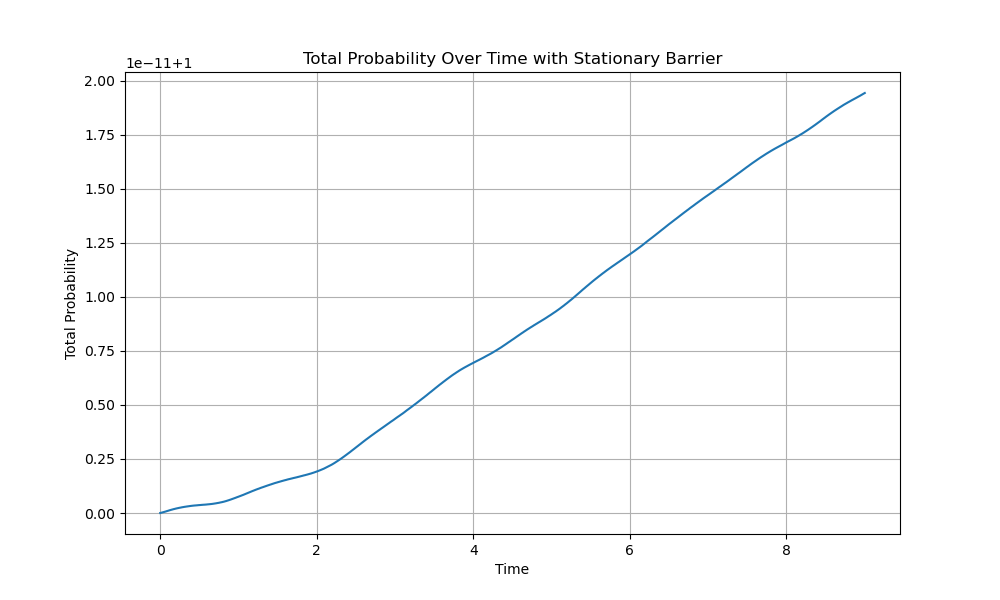
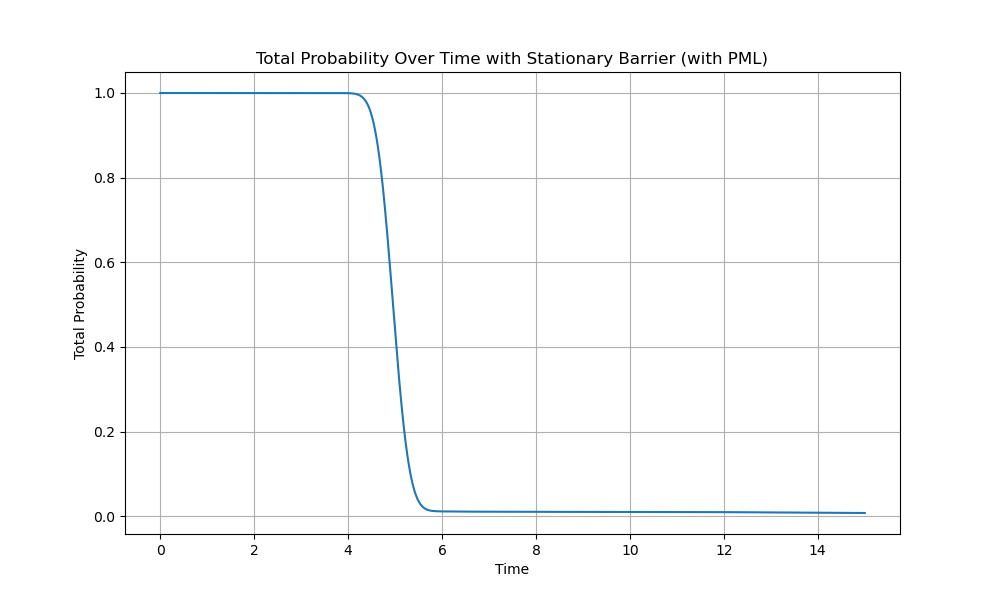
added plm boundary- toggled

diff --git a/wave_tunnel/main.py b/wave_tunnel/main.py
@@ -5,10 +5,11 @@ import matplotlib.pyplot as plt
 from tqdm import tqdm
 
 from wavefunctions import initialize_wavefunction_custom
-from potentials import create_total_potential
+from potentials import create_total_potential_with_pml
 from evolution import evolve_wavefunction
 from visualization import create_datashader_frame
 from utils import compute_total_probability
+from pml import get_pml_parameters
 
 def create_tunneling_animation_with_stationary_barrier_custom(
     output_filename='quantum_tunneling_with_stationary_barrier_custom.gif',
@@ -22,10 +23,12 @@ def create_tunneling_animation_with_stationary_barrier_custom(
     vis_settings={'width': 2000, 'height': 1000},
     n=1,
     x0=-100.0,
-    barrier_center_init=0.0
+    barrier_center_init=0.0,
+    use_pml=True
 ):
     """
     Create an animation of a wave packet tunneling through a stationary potential barrier.
+    Now includes PML boundary conditions.
     """
     # Create spatial grid
     x = np.linspace(spatial_range[0], spatial_range[1], spatial_points)
@@ -34,8 +37,16 @@ def create_tunneling_animation_with_stationary_barrier_custom(
     # Initialize wavefunction
     psi = initialize_wavefunction_custom(x, n, x0)
 
-    # Define total potential
-    V_total = create_total_potential(x, barrier_center_init, V0, barrier_width, transition_width)
+    # Setup PML parameters
+    pml_params = None
+    if use_pml:
+        pml_params = get_pml_parameters(spatial_range)
+        print(f"PML parameters: {pml_params}")
+
+    # Define total potential with PML
+    V_total, W_pml = create_total_potential_with_pml(
+        x, barrier_center_init, V0, barrier_width, transition_width, pml_params
+    )
 
     # Time step calculation
     max_k = np.max(np.abs(2 * np.pi * np.fft.fftfreq(spatial_points, d=dx)))
@@ -51,9 +62,10 @@ def create_tunneling_animation_with_stationary_barrier_custom(
     frames = []
     probabilities = []
 
-    print("Generating frames with numerical evolution and stationary barrier...")
+    pml_status = "with PML" if use_pml else "without PML"
+    print(f"Generating frames with numerical evolution and stationary barrier {pml_status}...")
     for i in tqdm(range(num_time_steps)):
-        psi = evolve_wavefunction(psi, x, dt, V_total)
+        psi = evolve_wavefunction(psi, x, dt, V_total, W_pml)
         total_prob = compute_total_probability(psi, dx)
         probabilities.append(total_prob)
 
@@ -70,7 +82,7 @@ def create_tunneling_animation_with_stationary_barrier_custom(
     plt.plot(times, probabilities)
     plt.xlabel('Time')
     plt.ylabel('Total Probability')
-    plt.title('Total Probability Over Time with Stationary Barrier')
+    plt.title(f'Total Probability Over Time with Stationary Barrier ({pml_status})')
     plt.grid(True)
     plt.savefig("probability_over_time_with_stationary_barrier_custom.png")
     plt.close()
@@ -94,13 +106,13 @@ def create_tunneling_animation_with_stationary_barrier_custom(
 if __name__ == "__main__":
     n_value = 4  # (n = m^2)
     spatial_range = (-100, 100)
-    x0_position = -60.0
+    x0_position = -50.0
     barrier_initial_position = 0
     
-    # Calculate for 60 fps
-    total_time = 9
+    # Fps
+    total_time = 15
     fps = 50
-    num_frames = int(total_time * fps)  # 600 frames for 10 seconds at 60fps
+    num_frames = int(total_time * fps)
     
     output_file = create_tunneling_animation_with_stationary_barrier_custom(
         output_filename="tunneling.gif",
@@ -108,12 +120,13 @@ if __name__ == "__main__":
         spatial_points=2000,
         spatial_range=spatial_range,
         total_time=total_time,
-        barrier_width=8.0,
+        barrier_width=15.0,
         V0=320.0,
         transition_width=0.05,
         vis_settings={'width': 1280, 'height': 640},
         n=n_value,
         x0=x0_position,
-        barrier_center_init=barrier_initial_position
+        barrier_center_init=barrier_initial_position,
+        use_pml=True
     )
     print(f"Animation saved to: {output_file}")

diff --git a/wave_tunnel/pml.py b/wave_tunnel/pml.py
@@ -1,0 +1,93 @@
+# pml.py
+
+import numpy as np
+
+def create_pml_absorbing_potential(x, pml_width=5.0, pml_strength=10.0, central_region=None):
+    """
+    Create a Perfectly Matched Layer (PML) absorbing potential.
+    
+    Parameters:
+    - x: Spatial grid points.
+    - pml_width: Width of the PML regions.
+    - pml_strength: Maximum strength of the absorbing potential.
+    - central_region: Tuple defining the central simulation region (min, max).
+                     If None, automatically determined from domain.
+    
+    Returns:
+    - W_pml: Absorbing potential array (positive real numbers).
+    """
+    W_pml = np.zeros_like(x)
+    x_min, x_max = x.min(), x.max()
+    
+    if central_region is None:
+        # Define central region as middle portion of domain
+        domain_width = x_max - x_min
+        central_min = x_min + pml_width
+        central_max = x_max - pml_width
+    else:
+        central_min, central_max = central_region
+
+    # Left PML (between x_min and central_min)
+    mask_left = (x >= x_min) & (x <= central_min)
+    if np.any(mask_left):
+        # Distance from left boundary of PML region
+        distance_from_boundary = central_min - x[mask_left]
+        normalized_distance = distance_from_boundary / pml_width
+        # Ensure we don't exceed pml_width
+        normalized_distance = np.clip(normalized_distance, 0, 1)
+        W_pml[mask_left] = pml_strength * normalized_distance**2
+
+    # Right PML (between central_max and x_max)
+    mask_right = (x >= central_max) & (x <= x_max)
+    if np.any(mask_right):
+        # Distance from right boundary of PML region
+        distance_from_boundary = x[mask_right] - central_max
+        normalized_distance = distance_from_boundary / pml_width
+        # Ensure we don't exceed pml_width
+        normalized_distance = np.clip(normalized_distance, 0, 1)
+        W_pml[mask_right] = pml_strength * normalized_distance**2
+
+    return W_pml
+
+def apply_pml_damping(psi, W_pml, dt):
+    """
+    Apply PML damping to the wavefunction.
+    
+    Parameters:
+    - psi: Current wavefunction.
+    - W_pml: PML absorbing potential.
+    - dt: Time step.
+    
+    Returns:
+    - psi_damped: Wavefunction after PML damping.
+    """
+    # Apply exponential damping where PML is active
+
+    damping_factor = np.exp(-W_pml * dt * 2.0)
+    return psi * damping_factor
+
+def get_pml_parameters(spatial_range):
+    """
+    Get default PML parameters based on spatial range.
+    
+    Parameters:
+    - spatial_range: Tuple (x_min, x_max) of the spatial domain.
+    
+    Returns:
+    - Dictionary with PML parameters.
+    """
+    x_min, x_max = spatial_range
+    domain_width = x_max - x_min
+    
+    pml_width = domain_width * 0.1
+    
+    central_min = x_min + pml_width
+    central_max = x_max - pml_width
+    
+    pml_strength = 20.0
+    
+    return {
+        'pml_width': pml_width,
+        'pml_strength': pml_strength,
+        'central_region': (central_min, central_max),
+    }

diff --git a/wave_tunnel/potentials.py b/wave_tunnel/potentials.py
@@ -1,6 +1,7 @@
 # potentials.py
 
 import numpy as np
+from pml import create_pml_absorbing_potential
 
 def create_potential_barrier(x, barrier_center=0.0, V0=20.0, barrier_width=1.0, transition_width=0.05):
     """
@@ -22,3 +23,25 @@ def create_total_potential(x, barrier_center=0.0, V0=20.0, barrier_width=1.0, tr
     Create the total potential including the stationary physical barrier.
     """
     return create_potential_barrier(x, barrier_center, V0, barrier_width, transition_width)
+
+def create_total_potential_with_pml(x, barrier_center=0.0, V0=20.0, barrier_width=1.0, 
+                                   transition_width=0.05, pml_params=None):
+    """
+    Create the total potential including the stationary physical barrier and PML.
+    
+    Returns:
+    - V_total: Physical potential
+    - W_pml: PML absorbing potential (None if no PML)
+    """
+    V_total = create_potential_barrier(x, barrier_center, V0, barrier_width, transition_width)
+    
+    W_pml = None
+    if pml_params is not None:
+        W_pml = create_pml_absorbing_potential(
+            x, 
+            pml_width=pml_params['pml_width'],
+            pml_strength=pml_params['pml_strength'],
+            central_region=pml_params['central_region']
+        )
+    
+    return V_total, W_pml

diff --git a/wave_tunnel/evolution.py b/wave_tunnel/evolution.py
@@ -1,10 +1,12 @@
 # evolution.py
 
 import numpy as np
+from pml import apply_pml_damping
 
-def evolve_wavefunction(psi, x, dt, V_total):
+def evolve_wavefunction(psi, x, dt, V_total, W_pml=None):
     """
     Evolve the wavefunction psi by a time step dt using the split-operator method.
+    Optionally applies PML boundary conditions.
     """
     dx = x[1] - x[0]
     N = len(x)
@@ -25,5 +27,9 @@ def evolve_wavefunction(psi, x, dt, V_total):
     psi_k = np.fft.fft(psi)
     psi_k *= exp_T
     psi = np.fft.ifft(psi_k)
+
+    # Apply PML damping if provided
+    if W_pml is not None:
+        psi = apply_pml_damping(psi, W_pml, dt)
 
     return psi
